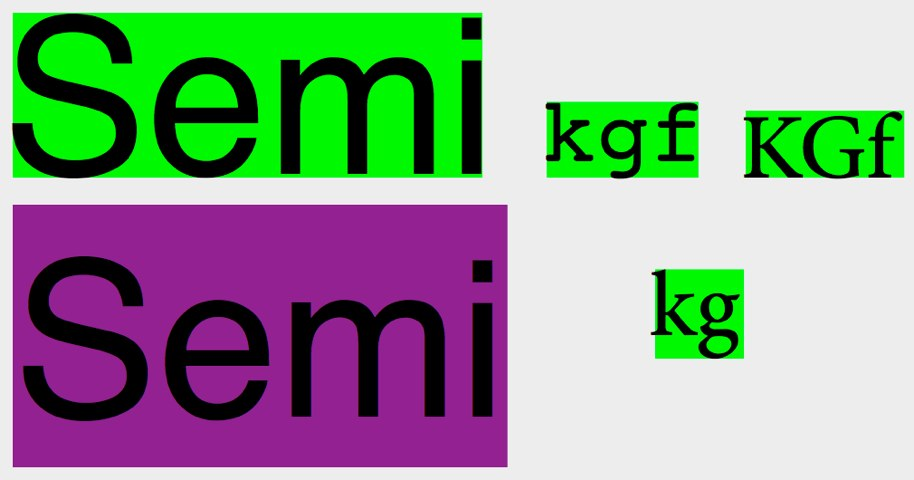
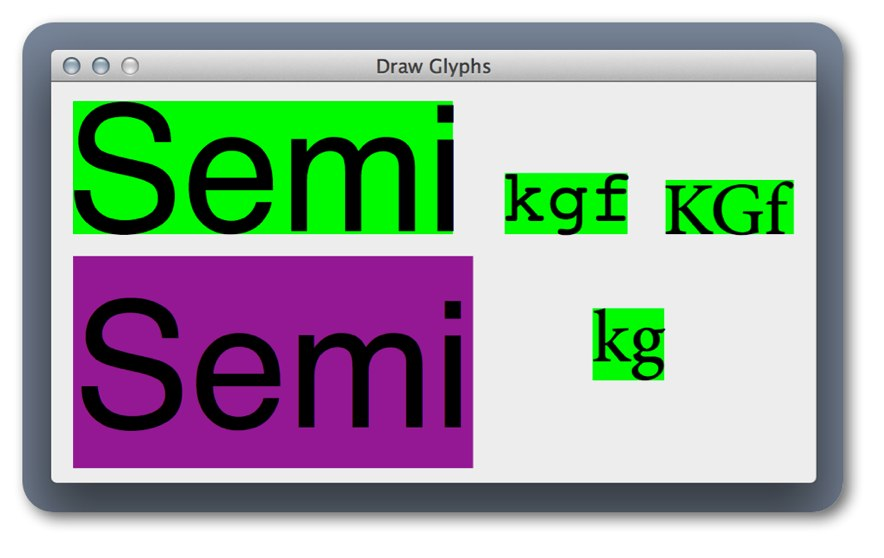
Added x shifting

diff --git a/Draw Glyphs/NSString+SemiGlyph.m b/Draw Glyphs/NSString+SemiGlyph.m
@@ -19,17 +19,16 @@
 {
     NSRect aRect = [self rectOfGlyphsAtPoint:aPoint withAttributes:attributes];
     
-    NSInteger leadShift = [referenceString leadShiftForGlyphsWithAttributes:attributes];
-    NSInteger descentShift = [referenceString descentShiftForGlyphsWithAttributes:attributes];
+    NSInteger yShift = [referenceString yShiftForGlyphsWithAttributes:attributes];
+    NSInteger yDeviceShift = [referenceString yDeviceShiftForGlyphsWithAttributes:attributes];
+    NSInteger xDeviceShift = [referenceString xDeviceShiftForGlyphsWithAttributes:attributes];
+
+    aRect.origin.y -= yDeviceShift;
     
-    //NSLog(@"descentShift:%ld leadShift:%ld", descentShift, leadShift);
-    aRect.origin.y -= descentShift;
+    if(yDeviceShift<=0)
+        aRect.origin.y += yShift;
     
-    if(descentShift<=0)
-        aRect.origin.y += leadShift;
-    
-    aRect.origin.y -= 0;
-    aRect.origin.x += round(leadShift/4.5);     // I don't know of an alternative to this secret sauce.
+    aRect.origin.x -= xDeviceShift;
     
     [self drawAtPoint:aRect.origin withAttributes:attributes];
 }
@@ -120,16 +119,22 @@
     return shortestGlyph;
 }
 
--(NSInteger)descentShiftForGlyphsWithAttributes:(NSDictionary*)attributes
+-(NSInteger)xDeviceShiftForGlyphsWithAttributes:(NSDictionary*)attributes
 {
-    NSRect descentRect = [self boundingRectWithSize:NSZeroSize options:NSStringDrawingUsesDeviceMetrics attributes:attributes];
-    return descentRect.origin.y;  // Magic B (see below)
+    NSRect rect = [self boundingRectWithSize:NSZeroSize options:NSStringDrawingUsesDeviceMetrics attributes:attributes];
+    return rect.origin.x;
 }
 
--(NSInteger)leadShiftForGlyphsWithAttributes:(NSDictionary*)attributes
+-(NSInteger)yDeviceShiftForGlyphsWithAttributes:(NSDictionary*)attributes
 {
-    NSRect leadRect = [self boundingRectWithSize:NSZeroSize options:0 attributes:attributes];
-    return leadRect.origin.y;  // Magic B (see below)
+    NSRect rect = [self boundingRectWithSize:NSZeroSize options:NSStringDrawingUsesDeviceMetrics attributes:attributes];
+    return rect.origin.y;
+}
+
+-(NSInteger)yShiftForGlyphsWithAttributes:(NSDictionary*)attributes
+{
+    NSRect rect = [self boundingRectWithSize:NSZeroSize options:0 attributes:attributes];
+    return rect.origin.y;
 }
 
 -(NSString*)stringWithoutPunctuation
